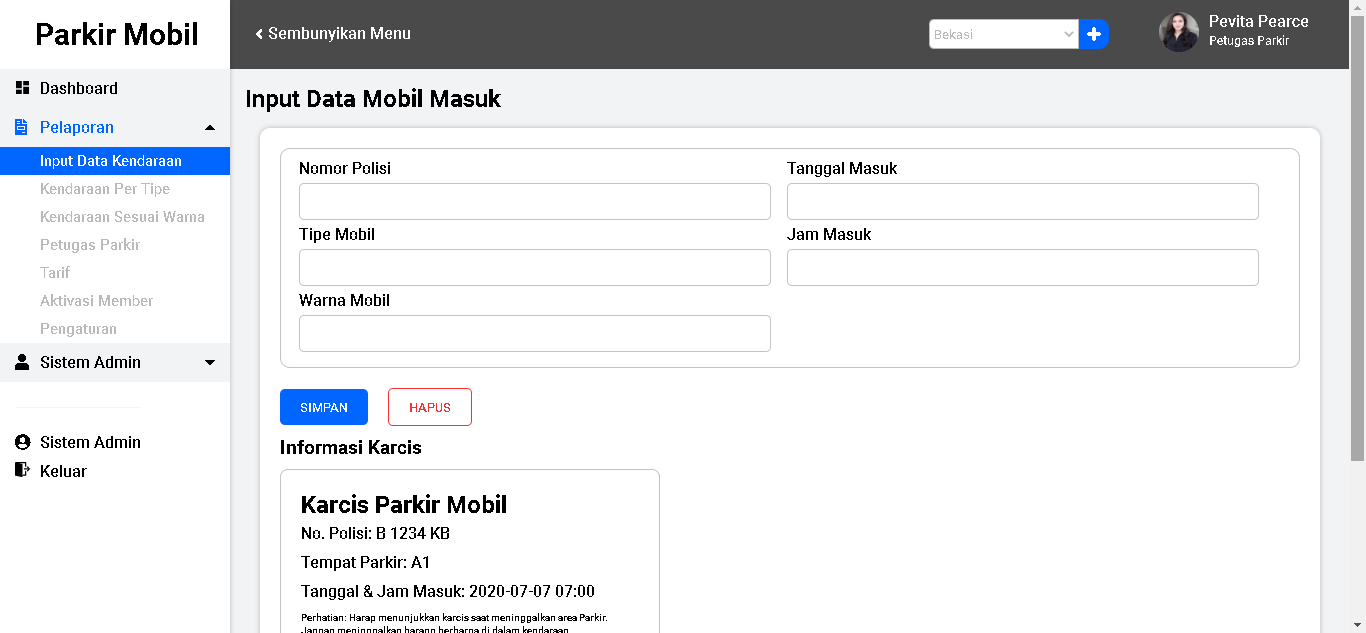
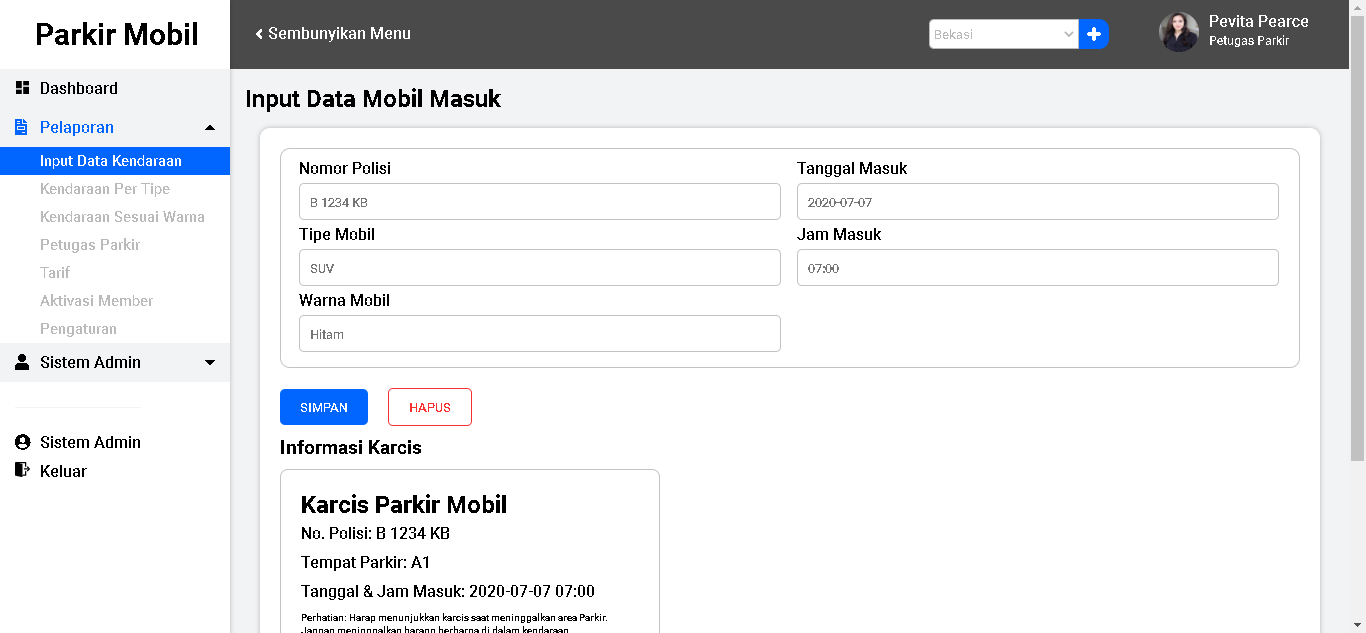
Fix Responsive Dekstop, Tablet

diff --git a/src/components/base_/formInput.vue b/src/components/base_/formInput.vue
@@ -7,23 +7,23 @@
       <section class="form">
         <div class="form-group">
           <label for="number">Nomor Polisi</label>
-          <input type="text" id="number" />
+          <input type="text" id="number" placeholder="B 1234 KB" />
         </div>
         <div class="form-group">
           <label for="color">Tanggal Masuk</label>
-          <input type="text" id="color" />
+          <input type="text" id="color" placeholder="2020-07-07" />
         </div>
         <div class="form-group">
           <label for="type">Tipe Mobil</label>
-          <input type="text" id="type" />
+          <input type="text" id="type" placeholder="SUV" />
         </div>
         <div class="form-group">
           <label for="date">Jam Masuk</label>
-          <input type="text" id="date" />
+          <input type="text" id="date" placeholder="07:00" />
         </div>
         <div class="form-group">
           <label for="no">Warna Mobil</label>
-          <input type="text" id="no" />
+          <input type="text" id="no" placeholder="Hitam" />
         </div>
       </section>
       <div class="button-group">
@@ -95,6 +95,7 @@ export default {
           width: 470px;
           height: 35px;
           margin: 5px 0;
+          padding-left: 10px;
         }
       }
     }
@@ -156,6 +157,102 @@ export default {
       .form-group {
         input {
           width: 590px;
+        }
+      }
+    }
+  }
+}
+
+@media only screen and (max-width: 1024px) {
+  .form-page {
+    display: none;
+    flex-direction: column;
+    width: 100%;
+    background: #f2f3f5;
+    .title {
+      padding: 15px;
+    }
+    .input-car {
+      background: white;
+      width: 700px;
+      margin-left: 30px;
+      margin-top: 10px;
+      margin-bottom: 70px;
+      border-radius: 10px;
+      box-shadow: 0px 0px 5px 0px rgba(0, 0, 0, 0.25);
+      padding: 20px;
+      box-sizing: border-box;
+      transition: 0.5s;
+      .form {
+        display: flex;
+        flex-wrap: wrap;
+        width: 100%;
+        border: #c7c2c2 1px solid;
+        border-radius: 10px;
+        padding: 10px;
+        box-sizing: border-box;
+        .form-group {
+          display: flex;
+          flex-direction: column;
+          margin: 0 8px;
+          input {
+            border: 1px solid #c7c2c2;
+            border-radius: 5px;
+            width: 600px;
+            height: 35px;
+            margin: 5px 0;
+          }
+        }
+      }
+      h3 {
+        margin-top: 10px;
+      }
+      .ticket {
+        display: flex;
+        flex-direction: column;
+        align-items: center;
+        width: 380px;
+        border: 1px solid #c7c2c2;
+        border-radius: 8px;
+        padding: 20px;
+        box-sizing: border-box;
+        margin-top: 10px;
+        h1 {
+          margin-bottom: 5px;
+        }
+        .info {
+          margin-bottom: 10px;
+        }
+        .note {
+          font-size: 10px;
+        }
+      }
+      .button-group {
+        margin-top: 20px;
+        .cancel {
+          border: 1px solid rgba(247, 10, 10, 0.842);
+          color: rgba(247, 10, 10, 0.842);
+          background: #ffffff;
+          padding: 10px 20px;
+          border-radius: 5px;
+          margin-left: 20px;
+          cursor: pointer;
+        }
+        .print {
+          border: none;
+          color: #ffffff;
+          background: #0066ff;
+          padding: 10px 20px;
+          border-radius: 5px;
+          cursor: pointer;
+        }
+        .save {
+          border: none;
+          color: #ffffff;
+          background: #0066ff;
+          padding: 10px 20px;
+          border-radius: 5px;
+          cursor: pointer;
         }
       }
     }

diff --git a/src/components/base_/listColor.vue b/src/components/base_/listColor.vue
@@ -151,4 +151,97 @@ export default {
     }
   }
 }
+
+@media only screen and (max-width: 1024px) {
+  .color-page {
+    display: none;
+    flex-direction: column;
+    width: 100%;
+    background: #f2f3f5;
+    .title {
+      padding: 15px;
+    }
+    .car-color {
+      background: white;
+      width: 700px;
+      margin-left: 30px;
+      margin-bottom: 50px;
+      border-radius: 10px;
+      box-shadow: 0px 0px 5px 0px rgba(0, 0, 0, 0.25);
+      padding: 20px;
+      box-sizing: border-box;
+      transition: 0.5s;
+      .color {
+        display: flex;
+        flex-wrap: wrap;
+        width: 100%;
+        padding: 10px;
+        box-sizing: border-box;
+        .reg {
+          display: flex;
+          align-items: center;
+          margin-right: 50px;
+          .warna {
+            height: 30px;
+            width: 150px;
+            border: 0.5px solid #bababa;
+            border-radius: 5px 0 0 5px;
+            color: #bababa;
+          }
+          .orange {
+            display: flex;
+            align-items: center;
+            justify-content: center;
+            background: #0066ff;
+            height: 30px;
+            width: 30px;
+            color: #ffffff;
+            border-radius: 0 10px 10px 0;
+          }
+        }
+      }
+      .list-color {
+        display: flex;
+        width: 100%;
+        height: 100px;
+        box-shadow: 0px 5px 9px -2px rgba(0, 0, 0, 0.1);
+        padding: 15px;
+        box-sizing: border-box;
+        margin-bottom: 10px;
+        .info {
+          display: flex;
+          height: 100%;
+          justify-content: space-between;
+          padding: 3px;
+          box-sizing: border-box;
+          font-size: 14px;
+          .data {
+            margin-left: 81px;
+          }
+          .phone {
+            display: flex;
+            p {
+              font-size: 12px;
+            }
+            .or {
+              color: #0066ff;
+              margin-right: 5px;
+            }
+          }
+          .status {
+            display: flex;
+            p {
+              font-size: 12px;
+            }
+            .vi {
+              color: #82bf96;
+              margin-right: 5px;
+              font-size: 12px;
+            }
+          }
+        }
+      }
+    }
+  }
+}
 </style>

diff --git a/src/views/Home.vue b/src/views/Home.vue
@@ -177,7 +177,7 @@ export default {
     }
   }
 }
-@media only screen and(max-width: 600px) {
+@media only screen and(max-width: 1024px) {
   .home {
     .main-menu {
       width: 100%;
@@ -185,7 +185,11 @@ export default {
         .left {
           margin-right: 10px;
           .hide-menu {
-            display: none;
+            display: flex;
+            p {
+              margin-left: 220px;
+              margin-top: -2px;
+            }
           }
           .sauce {
             display: block;

diff --git a/src/components/base_/Dashboard.vue b/src/components/base_/Dashboard.vue
@@ -333,7 +333,7 @@ export default {
     }
   }
 }
-@media only screen and (max-width: 600px) {
+@media only screen and (max-width: 1024px) {
   .container {
     align-items: center;
     .data-1 {

diff --git a/README.md b/README.md
@@ -40,6 +40,9 @@ Parkir Mobil is a website-based Car Parking application, created using Vue.js, w
 <h1 align="center">
   <img src="https://github.com/ichvanul/ravelware-test/blob/master/src/assets/img/page5.png">
 </h1>
+<h1 align="center">
+  <img src="https://github.com/ichvanul/ravelware-test/blob/master/src/assets/img/page6.png">
+</h1>
 
 ## How To Install
 
